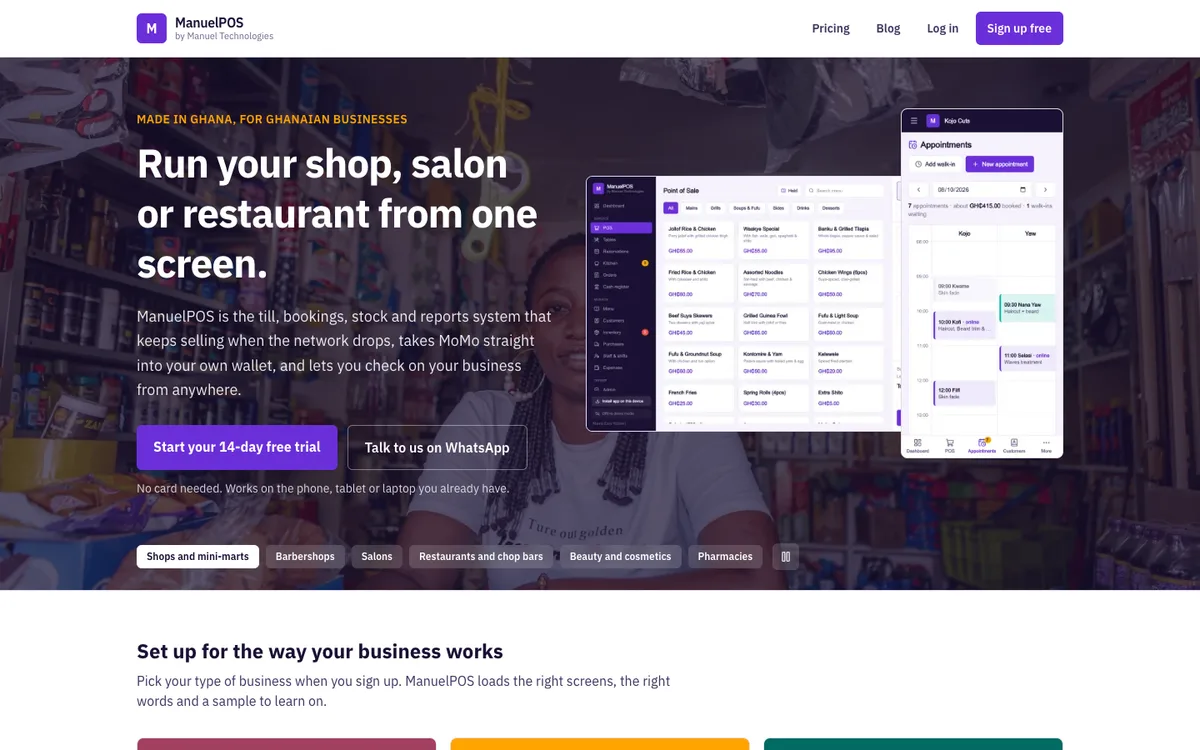
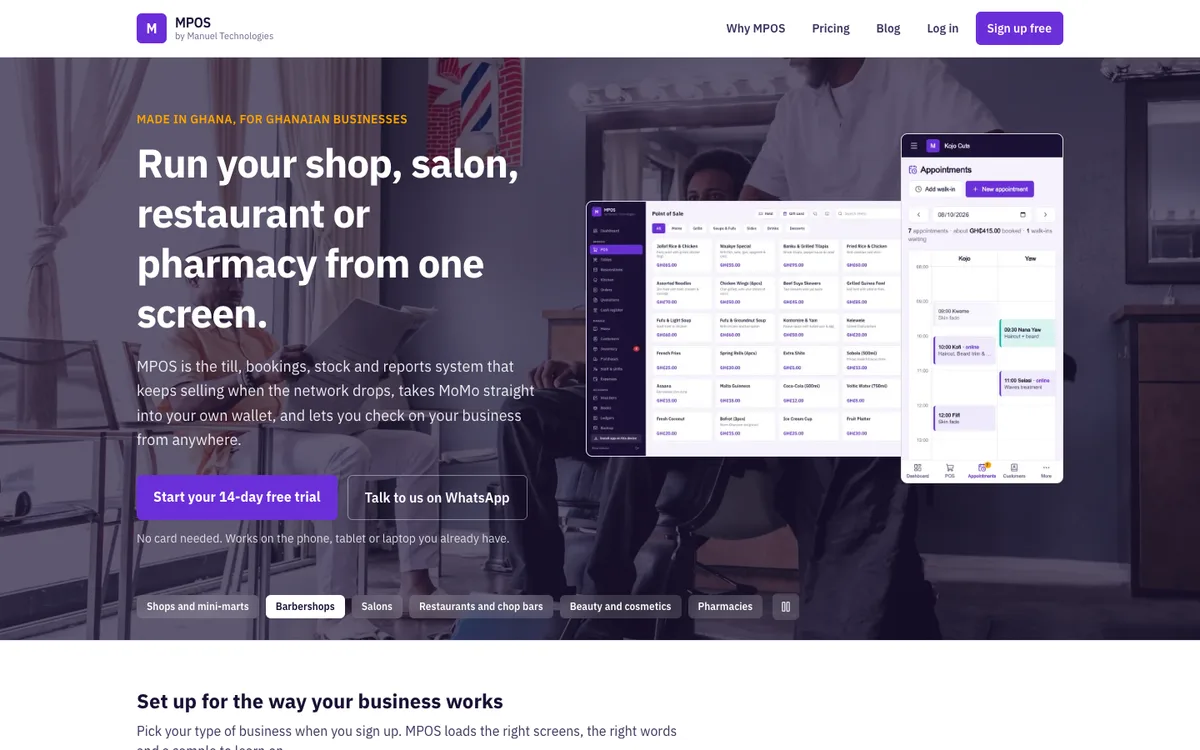
Selected work: MPOS, Bolton tax clinic, Dementia Companions, Accountants for Charities
Homepage. The four featured cards are now chosen by slug rather than by
list order; every other project lists beneath as a link. The pricing
teaser is removed: prices cover one service line and have their own page.

MPOS. The product is branded MPOS on mpos.bz, so every visible
'ManuelPOS' now reads MPOS, and the screenshot is retaken from the
rebranded site. Slugs and file names are unchanged.

New project: Accountants for Charities, Cangaf's charity practice.

Cangaf. Redesigned, so the screenshot, summary and case study are
rewritten from the live site on 7 November 2026: nine client type pages,
thirteen local area pages, eight tax calculators, a ten term glossary and
over 300 articles, and the four sites the practice runs.

diff --git a/src/lib/case-studies.ts b/src/lib/case-studies.ts
@@ -253,50 +253,60 @@ export const CASE_STUDIES: CaseStudy[] = [
   /* ---------------------------------------------------------------------- */
   {
     slug: "cangaf",
-    modified: "2026-08-31",
-    title: "Website and technical SEO for a Bolton accountancy practice",
-    metaTitle: "Accountancy website and technical SEO",
+    /* Rewritten 7 November 2026 after the redesign. Every count below was
+       taken from the live sitemap and homepage that day. The Google rating
+       is Google's and is quoted as what the site displays, not as a result
+       of our work. */
+    modified: "2026-11-07",
+    title: "A Bolton accountancy practice, rebuilt around who it serves",
+    metaTitle: "Accountancy site rebuilt for local SEO",
     description:
-      "A chartered accountancy practice in Bolton: six service paths, a client onboarding route, and a resource library feeding its specialist CGT arm.",
-    lead: "Cangaf is a certified chartered accountancy practice in Bolton and the parent firm behind Capital Gains Tax Experts. Two sites, one practice, and a deliberate decision to keep them apart.",
+      "Nine client type pages, thirteen local area pages, eight working tax calculators and over 300 articles for a chartered certified practice in Bolton.",
+    lead: "Cangaf is an ACCA and AAT qualified practice on Tonge Moor Road in Bolton. The redesign stopped organising the site around what the firm sells and started organising it around who is searching: the landlord, the taxi driver, the charity treasurer and the town they live in.",
     sections: [
       {
-        heading: "Why the specialist arm has its own domain",
+        heading: "Organised by the client, not the service",
         paragraphs: [
-          "A general practice site and a specialist capital gains site want to rank for different things and speak to different people. Someone searching for an accountant in Bolton wants a local firm they can visit. Someone searching for what they owe on a second property disposal wants a specialist, and does not care where the office is.",
-          "Folding both into one site means every page compromises. Keeping them separate lets the general practice own local intent and the specialist arm own national intent, with each free to structure itself around its own buyer. The relationship between them is stated rather than hidden, so neither is pretending to be something it is not.",
+          "Nobody searches for \"Self Assessment services\". A landlord searches for an accountant for landlords, and a CIS subcontractor searches for someone who understands CIS rebates. The site now has nine pages written for a type of client: sole traders, landlords, contractors, CIS and construction, taxi drivers, hairdressers, restaurants, doctors and healthcare professionals, and online sellers.",
+          "The sixteen service pages still exist, from Self Assessment and VAT returns to R&D tax and inheritance tax planning. The difference is that a visitor no longer has to translate their situation into the firm's vocabulary before they can find the right page. The homepage hero repeats the same idea in a row of client types, so the first screen answers \"is this for me\".",
         ],
       },
       {
-        heading: "Service architecture",
+        heading: "Thirteen towns, one office",
         paragraphs: [
-          "The practice publishes six distinct service lines, covering self assessment and personal tax, accounting and bookkeeping, capital gains tax advice, cloud accounting, corporation tax and VAT returns.",
-          "Each is a genuine service line with its own buyer rather than a subheading on a single services page. A sole trader needing self assessment and a limited company needing corporation tax and VAT are not the same enquiry, and giving each its own path is what allows either to be found.",
-          "A three step onboarding route runs alongside them, from stating the need through to the practice taking the work on. Professional services buyers hesitate at the point where they cannot picture what happens next, and naming the steps removes that.",
+          "A local practice competes on being near. The site carries thirteen local area pages covering Bolton and the towns around it: Bury, Chorley, Farnworth, Horwich, Leigh, Manchester, Radcliffe, Rochdale, Salford, Warrington, Westhoughton and Wigan.",
+          "The homepage marks up the places it serves as structured data, alongside an FAQ block, so the area served is stated to search engines as well as to people. The office address appears in full, because a business owner choosing an accountant often wants to know they could walk in.",
         ],
       },
       {
-        heading: "The conversion path for a local practice",
+        heading: "Answering the question before the call",
         paragraphs: [
-          "A Bolton practice competes on being reachable, not on being the largest. The phone number sits in the header rather than buried on a contact page, and WhatsApp is available alongside it, because a small business owner with a question about a deadline will use whichever is nearest to hand.",
-          "Two entry points run side by side rather than one: a free quote for someone comparing firms, and a call back request for someone who would rather talk than fill anything in. A single call to action would have lost one of those visitors, and they are not the same person.",
-          "A client portal carries existing clients, which keeps the public site free to do acquisition work instead of doubling as an account area.",
+          "Eight tax calculators run on the site: VAT, National Insurance, Capital Gains Tax, salary against dividend, CIS tax rebate, Corporation Tax, employed and self-employed income, and mileage allowance. Each answers a question a prospect would otherwise phone to ask, and each is a page someone can find, use and come back to.",
+          "A tax glossary of ten terms, from Section 24 to payments on account, and a library of over three hundred articles do the same job at a different depth. Tax rules change every year, so a practice that publishes as they change keeps answering the questions clients are asking that year.",
         ],
       },
       {
-        heading: "The resource library",
+        heading: "Proof and contact on the first screen",
         paragraphs: [
-          "The practice publishes on live UK tax and property matters, including inheritance tax and pension reform, the Renters' Rights Act, and stamp duty.",
-          "This is the part that compounds. Tax changes annually, legislation lands on a schedule, and a practice that publishes on each change as it arrives builds a body of work that answers the questions clients are asking that year. It supports the specialist CGT arm at the same time, because the two sites cover adjacent ground and each strengthens the case that the practice knows the subject.",
+          "The hero shows the practice's Google rating and review count next to its qualifications and its fixed monthly fees, and the reviews further down are labelled by the work they describe: charity accounts, Self Assessment, annual accounts and Corporation Tax. A prospect sees someone like them before they reach the contact form.",
+          "Every route to a conversation is one tap away: the phone number in the header, a free quote, WhatsApp, and a three step switching route that says what happens after the first call. Existing clients have a client portal, which keeps the public site free to do acquisition work.",
+        ],
+      },
+      {
+        heading: "One practice, several front doors",
+        paragraphs: [
+          "Cangaf is not the only site the practice runs. Capital Gains Tax Experts serves people with a national, specialist question. Accountants for Charities serves charity trustees on the same Bolton phone line. Bolton Community Tax Clinic is a free walk-in clinic at the same Tonge Moor Road address. We built all four.",
+          "Each audience searches differently and trusts different signals, so each has its own domain rather than a tab on one site. The general practice owns local intent, and the specialist sites own theirs.",
         ],
       },
     ],
     verify: [
-      "Six service paths are published: self assessment, accounting and bookkeeping, capital gains tax advice, cloud accounting, corporation tax and VAT returns.",
-      "A three step client onboarding route is published on the homepage.",
-      "The resource library carries current UK tax and property articles, including inheritance tax and pension reform, the Renters' Rights Act and stamp duty.",
-      "The relationship to Capital Gains Tax Experts, the specialist arm, is stated rather than concealed.",
-      "A client portal, a free quote path and a call back path are all reachable from the homepage.",
+      "Nine client type pages are published, including landlords, taxi drivers, hairdressers, CIS and online sellers.",
+      "Thirteen local area pages are published, from Bolton to Warrington and Wigan.",
+      "Eight working tax calculators are listed under Resources.",
+      "A ten term tax glossary and over three hundred articles are published.",
+      "The homepage carries FAQ and place structured data, testable in Google's Rich Results Test.",
+      "Phone, free quote, WhatsApp and the client portal are all reachable from the homepage.",
     ],
     results: [],
     published: true,

diff --git a/src/app/mpos/page.tsx b/src/app/mpos/page.tsx
@@ -9,25 +9,25 @@ import { SITE } from "@/lib/site";
 import { ogCard } from "@/lib/og";
 
 /* --------------------------------------------------------------------------
-   ManuelPOS, introduced, not duplicated. The product has its own site at
+   MPOS, introduced, not duplicated. The product has its own site at
    mpos.bz, which is where people sign up, read the docs and see pricing.
    This page says what it is and who it is for, as proof that Manuel
    Technologies ships production software, and sends every action there.
 
    Every fact here is taken from mpos.bz as published on 21 October 2026.
-   Two things are deliberately absent. There is no price, because ManuelPOS
+   Two things are deliberately absent. There is no price, because MPOS
    agrees each price with the business and publishes none. And there is no
-   claim of GRA certification: ManuelPOS calculates VAT, NHIL and GETFund on
+   claim of GRA certification: MPOS calculates VAT, NHIL and GETFund on
    receipts under the 2026 rules, which is a feature, not an approval.
    -------------------------------------------------------------------------- */
 
-const TITLE = "ManuelPOS: point of sale for Ghanaian businesses";
+const TITLE = "MPOS: point of sale for Ghanaian businesses";
 
 export const metadata: Metadata = {
-  title: { absolute: "ManuelPOS: point of sale built in Ghana | Manuel Technologies" },
-  description: "ManuelPOS is our till, bookings and stock system for shops, salons, restaurants and pharmacies in Ghana. Works offline, takes MoMo to your own wallet.",
+  title: { absolute: "MPOS: point of sale built in Ghana | Manuel Technologies" },
+  description: "MPOS is our till, bookings and stock system for shops, salons, restaurants and pharmacies in Ghana. Works offline, takes MoMo to your own wallet.",
   alternates: { canonical: "/mpos" },
-  openGraph: { images: [{ url: "/work/manuelpos.webp", width: 1200, height: 750, alt: "ManuelPOS point of sale" }, ogCard(TITLE, "Product")] },
+  openGraph: { images: [{ url: "/work/manuelpos.webp", width: 1200, height: 750, alt: "MPOS point of sale" }, ogCard(TITLE, "Product")] },
 };
 
 export default function MposPage() {
@@ -36,7 +36,7 @@ export default function MposPage() {
     {
       "@context": "https://schema.org",
       "@type": "SoftwareApplication",
-      name: "ManuelPOS",
+      name: "MPOS",
       url: MPOS.url,
       sameAs: [url],
       applicationCategory: "BusinessApplication",
@@ -53,7 +53,7 @@ export default function MposPage() {
       "@type": "BreadcrumbList",
       itemListElement: [
         { "@type": "ListItem", position: 1, name: "Home", item: SITE.url },
-        { "@type": "ListItem", position: 2, name: "ManuelPOS", item: url },
+        { "@type": "ListItem", position: 2, name: "MPOS", item: url },
       ],
     },
   ];
@@ -71,7 +71,7 @@ export default function MposPage() {
               <li aria-hidden="true">/</li>
               <li><Link href="/work" className="hover:text-mt-purple">Work</Link></li>
               <li aria-hidden="true">/</li>
-              <li aria-current="page">ManuelPOS</li>
+              <li aria-current="page">MPOS</li>
             </ol>
           </nav>
           <div className="mt-12 grid gap-12 lg:grid-cols-[1fr_1.1fr] lg:items-center">
@@ -86,7 +86,7 @@ export default function MposPage() {
               <p className="mt-6 text-sm text-mt-slate">Sign up, pricing and support all live at mpos.bz.</p>
             </div>
             <a href={MPOS.url} className="block overflow-hidden rounded-[18px] border border-mt-border bg-mt-surface transition-colors duration-150 hover:border-mt-purple">
-              <Image src="/work/manuelpos.webp" alt="The ManuelPOS homepage, showing the till and the appointments screen" width={1200} height={750} priority sizes="(min-width: 1024px) 50vw, 100vw" className="h-auto w-full" />
+              <Image src="/work/manuelpos.webp" alt="The MPOS homepage, showing the till and the appointments screen" width={1200} height={750} priority sizes="(min-width: 1024px) 50vw, 100vw" className="h-auto w-full" />
             </a>
           </div>
         </Container>
@@ -98,7 +98,7 @@ export default function MposPage() {
           <SectionLabel>Who it is for</SectionLabel>
           <h2 className="mt-6 max-w-[24ch]">Set up for the way six kinds of business work.</h2>
           <p className="mt-6 max-w-[65ch] text-lg leading-relaxed text-mt-slate">
-            A business picks its type when it signs up, and ManuelPOS loads the screens and words for it.
+            A business picks its type when it signs up, and MPOS loads the screens and words for it.
           </p>
           <ul className="mt-reveal-group mt-12 grid gap-6 sm:grid-cols-2 lg:grid-cols-3">
             {MPOS.businessTypes.map((b) => (
@@ -128,7 +128,7 @@ export default function MposPage() {
         </Container>
       </section>
 
-      {/* How paying works. No price, because ManuelPOS publishes none. */}
+      {/* How paying works. No price, because MPOS publishes none. */}
       <section className="py-24 sm:py-32">
         <Container>
           <div className="grid gap-12 lg:grid-cols-[1fr_1fr]">
@@ -163,12 +163,12 @@ export default function MposPage() {
           <SectionLabel>Why it is here</SectionLabel>
           <h2 className="mt-6 max-w-[22ch]">The same engineering, on software we run ourselves.</h2>
           <p className="mt-6 max-w-[65ch] text-lg leading-relaxed text-mt-slate">
-            ManuelPOS is designed, built and operated by Manuel Technologies. Offline sync, per-business data separation, role based access and tax worked out on every receipt are the same problems we solve in{" "}
+            MPOS is designed, built and operated by Manuel Technologies. Offline sync, per-business data separation, role based access and tax worked out on every receipt are the same problems we solve in{" "}
             <Link href="/build/custom-software" className="text-mt-purple underline decoration-mt-purple/30 underline-offset-4 hover:decoration-mt-purple">custom software</Link>{" "}
             for clients.
           </p>
           <div className="mt-12 flex flex-wrap gap-4">
-            <Button href={MPOS.url} external>Try ManuelPOS free</Button>
+            <Button href={MPOS.url} external>Try MPOS free</Button>
             <Button href="/contact" variant="secondary">Talk to us about your own software</Button>
           </div>
         </Container>

diff --git a/src/components/ManuelPosProof.tsx b/src/components/ManuelPosProof.tsx
@@ -6,7 +6,7 @@ import { SectionLabel } from "@/components/ui/SectionLabel";
 import { MPOS } from "@/lib/mpos";
 import type { Accent } from "@/lib/accent";
 
-/* ManuelPOS as proof on a pillar. The point it makes: Manuel Technologies
+/* MPOS as proof on a pillar. The point it makes: Manuel Technologies
    ships and operates production software, not only websites. Facts from
    lib/mpos.ts, so this never says more than mpos.bz does. */
 export function ManuelPosProof({ accent = "purple", surface = false }: { accent?: Accent; surface?: boolean }) {
@@ -15,13 +15,13 @@ export function ManuelPosProof({ accent = "purple", surface = false }: { accent?
       <Container>
         <div className="grid gap-12 lg:grid-cols-[1.1fr_1fr] lg:items-center">
           <Link href="/mpos" className="block overflow-hidden rounded-[18px] border border-mt-border bg-mt-surface transition-colors duration-150 hover:border-mt-purple">
-            <Image src="/work/manuelpos.webp" alt="ManuelPOS, the till and appointments screens" width={1200} height={750} sizes="(min-width: 1024px) 50vw, 100vw" className="h-auto w-full" />
+            <Image src="/work/manuelpos.webp" alt="MPOS, the till and appointments screens" width={1200} height={750} sizes="(min-width: 1024px) 50vw, 100vw" className="h-auto w-full" />
           </Link>
           <div>
             <SectionLabel accent={accent}>Software we run</SectionLabel>
             <h2 className="mt-6 max-w-[20ch]">We ship production software, and run it.</h2>
             <p className="mt-6 max-w-[65ch] text-lg leading-relaxed text-mt-slate">
-              ManuelPOS is our own till, bookings and stock system for six kinds of business in Ghana. It is built for a business to run its whole day on, so it has to keep working when the network does not.
+              MPOS is our own till, bookings and stock system for six kinds of business in Ghana. It is built for a business to run its whole day on, so it has to keep working when the network does not.
             </p>
             <ul className="mt-8 flex flex-col gap-3">
               {MPOS.features.slice(0, 3).map((f) => (
@@ -32,7 +32,7 @@ export function ManuelPosProof({ accent = "purple", surface = false }: { accent?
               ))}
             </ul>
             <div className="mt-10 flex flex-wrap gap-4">
-              <Button href="/mpos">See ManuelPOS</Button>
+              <Button href="/mpos">See MPOS</Button>
               <Button href={MPOS.url} external variant="secondary">Visit mpos.bz</Button>
             </div>
           </div>

diff --git a/src/lib/site.ts b/src/lib/site.ts
@@ -238,7 +238,7 @@ export const PROJECTS: Project[] = [
      day on is the strongest proof on the site. Facts from lib/mpos.ts. */
   {
     slug: "manuelpos",
-    client: "ManuelPOS",
+    client: "MPOS",
     url: "https://mpos.bz",
     market: "Ghana",
     sector: "Point of sale software",
@@ -316,11 +316,27 @@ export const PROJECTS: Project[] = [
     url: "https://cangafltd.com",
     market: "United Kingdom",
     sector: "Accountancy",
+    /* Redesigned and re-counted 7 November 2026, from the live sitemap. */
     summary:
-      "The parent practice behind Capital Gains Tax Experts. Chartered accountants in Bolton, with a client portal and a resource library.",
-    scope: ["Website Development", "Technical SEO"],
+      "A Bolton accountancy practice, rebuilt around who it serves. Nine pages by client type, from landlords to taxi drivers, thirteen local area pages, eight working tax calculators, a tax glossary and a library of over three hundred articles.",
+    scope: ["Website Development", "Custom Software", "Technical SEO"],
     thumb: "/work/cangaf.webp",
-    metric: "6 service lines",
+    metric: "13 local area pages",
+  },
+  /* Added 7 November 2026. Cangaf's charity practice: the same Bolton phone
+     line, and its own domain because charity trustees search differently
+     from sole traders. Counts from the live sitemap that day. */
+  {
+    slug: "accountants-for-charities",
+    client: "Accountants for Charities",
+    url: "https://accountantsforcharities.uk",
+    market: "United Kingdom",
+    sector: "Charity accountancy",
+    summary:
+      "Specialist accounts for UK charities, CIOs and not-for-profits. Five service pages from SORP accounts to Gift Aid claims, a free review route for trustees, and over fifty guides answering the questions charities search for.",
+    scope: ["Website Development", "Web Design", "Technical SEO"],
+    thumb: "/work/accountants-for-charities.webp",
+    metric: "50+ charity guides",
   },
   /* Added 3 November 2026. Counts taken from the live sites that day.
      SCOPE NEEDS CONFIRMING on all four: this is the conservative reading of

diff --git a/src/app/page.tsx b/src/app/page.tsx
@@ -13,7 +13,6 @@ import { CallToAction } from "@/components/CallToAction";
 import { SelectedWork } from "@/components/SelectedWork";
 import { WorkReel } from "@/components/WorkReel";
 import { PillarStatement } from "@/components/PillarStatement";
-import { PricingTeaser } from "@/components/PricingTeaser";
 import { HOME_SEARCH } from "@/lib/pillar-statements";
 import { DotGrid } from "@/components/ui/DotGrid";
 import { ACCENT, PILLAR_ACCENT } from "@/lib/accent";
@@ -229,19 +228,18 @@ export default function Home() {
         </Container>
       </section>
 
-      {/* Cut on 8 November 2026, because none of them helped a visitor
+      {/* Cut on 7 November 2026, because none of them helped a visitor
           decide: the funnel and engine diagrams (both repeated the pillars),
-          the process, the 2,000px agency comparison (it has its own page,
-          linked from the prices), fit and handover lists, enterprise
+          the process, the 2,000px agency comparison (it has its own page), fit and handover lists, enterprise
           standards (now on the five technical pages' remit) and the
-          extension band (on /work). Components remain in the repo. */}
+          extension band (on /work). The pricing teaser that replaced them was
+          also removed the same day: prices cover one service line and have
+          their own page. Components remain in the repo. */}
       <SelectedWork />
 
       <ClientSpotlight />
 
       <Integrations variant="surface" />
-
-      <PricingTeaser />
 
       <section className="py-24 sm:py-32">
         <script

diff --git a/src/lib/mpos.ts b/src/lib/mpos.ts
@@ -1,5 +1,5 @@
 /* --------------------------------------------------------------------------
-   ManuelPOS, the facts this site states about it. One place, read by /mpos,
+   MPOS, the facts this site states about it. One place, read by /mpos,
    the work index, the Scale hub and /build/custom-software.
 
    Source: mpos.bz and mpos.bz/pricing as published on 21 October 2026.
@@ -15,7 +15,7 @@ export const MPOS = {
   url: "https://mpos.bz",
   pricingUrl: "https://mpos.bz/pricing",
   summary:
-    "ManuelPOS is the till, bookings, stock and reports system for Ghanaian businesses. It keeps selling when the network drops, takes MoMo straight into the business's own wallet, and lets the owner check on the business from anywhere.",
+    "MPOS is the till, bookings, stock and reports system for Ghanaian businesses. It keeps selling when the network drops, takes MoMo straight into the business's own wallet, and lets the owner check on the business from anywhere.",
   /* Countable on mpos.bz by anyone. Used as the work card's metric. */
   metric: "6 business types",
   businessTypes: [

diff --git a/src/components/SelectedWork.tsx b/src/components/SelectedWork.tsx
@@ -80,10 +80,17 @@ function WorkCard({
   );
 }
 
+/* The four cards, chosen by Emmanuel on 7 November 2026 for their visual
+   appeal. Everything else lists beneath as a link. A slug that is missing
+   or has no screenshot simply drops out, so this can never render a hole. */
+const FEATURED = ["manuelpos", "bolton-tax-clinic", "dementia-companions", "accountants-for-charities"];
+
 export function SelectedWork() {
   /* Cards for anything with a screenshot. Everything else goes to the rail,
      so a project without an image is still visible rather than dropped. */
-  const featured = PROJECTS.filter((p) => p.thumb).slice(0, 4);
+  const featured = FEATURED.map((slug) => PROJECTS.find((p) => p.slug === slug)).filter(
+    (p): p is Project => Boolean(p?.thumb),
+  );
   const rest = PROJECTS.filter((p) => !featured.includes(p));
 
   return (

diff --git a/src/app/[pillar]/[service]/page.tsx b/src/app/[pillar]/[service]/page.tsx
@@ -31,9 +31,9 @@ const PROOF = {
 } as const;
 
 /* A service whose best proof is not its pillar's default. Custom software is
-   proved by ManuelPOS, our own production software, rather than by a site. */
+   proved by MPOS, our own production software, rather than by a site. */
 const SERVICE_PROOF: Partial<Record<string, { src: string; alt: string; client: string; fact: string; href: string }>> = {
-  "custom-software": { src: "/work/manuelpos.webp", alt: "ManuelPOS, point of sale software built and run by Manuel Technologies", client: "ManuelPOS", fact: "6 business types", href: "/mpos" },
+  "custom-software": { src: "/work/manuelpos.webp", alt: "MPOS, point of sale software built and run by Manuel Technologies", client: "MPOS", fact: "6 business types", href: "/mpos" },
 };
 
 export function generateStaticParams() {

diff --git a/src/components/PillarStatement.tsx b/src/components/PillarStatement.tsx
@@ -7,7 +7,7 @@ import type { Accent } from "@/lib/accent";
    Pillar statement. One centred sentence, flanked by tilted pills that link
    to the services behind it. From diptell.com, 7 November 2026; first used
    as the search section on the homepage, then made the hero of each pillar
-   hub on 8 November, because it was the clearest section on the site.
+   hub on 7 November, because it was the clearest section on the site.
 
    Adapted, not copied. Every pill is a real link to a real page, so the
    section works for the visitor and for crawlers. No box-shadow (CLAUDE.md

diff --git a/src/lib/pillar-statements.ts b/src/lib/pillar-statements.ts
@@ -67,7 +67,7 @@ export const HUB_STATEMENTS: Record<"build" | "grow" | "scale", Statement> = {
       { label: "AI agents", href: "/scale/ai-agents", icon: "bot" },
       { label: "Analytics", href: "/scale/analytics", icon: "chart" },
       { label: `${INTEGRATIONS.length} integrations`, href: "/integrations", icon: "plug" },
-      { label: "ManuelPOS", href: "/mpos", icon: "till" },
+      { label: "MPOS", href: "/mpos", icon: "till" },
     ],
   },
 };

diff --git a/src/components/Footer.tsx b/src/components/Footer.tsx
@@ -44,7 +44,7 @@ const COMPANY_COLUMN = {
   links: [
     { name: "About", href: "/about" },
     { name: "Work", href: "/work" },
-    { name: "ManuelPOS", href: "/mpos" },
+    { name: "MPOS", href: "/mpos" },
     { name: "Pricing", href: "/pricing" },
     { name: "Free tools", href: "/free-tools" },
     { name: "Integrations", href: "/integrations" },

diff --git a/src/components/PillarHub.tsx b/src/components/PillarHub.tsx
@@ -70,7 +70,7 @@ export function PillarHub({
 
       {/* Hero. The pillar statement, with the h1 in the middle and each
           service as a link around it. Replaced a text only hero on
-          8 November 2026. */}
+          7 November 2026. */}
       <PillarStatement
         as="h1"
         accent={PILLAR_ACCENT[pillar.slug]}
